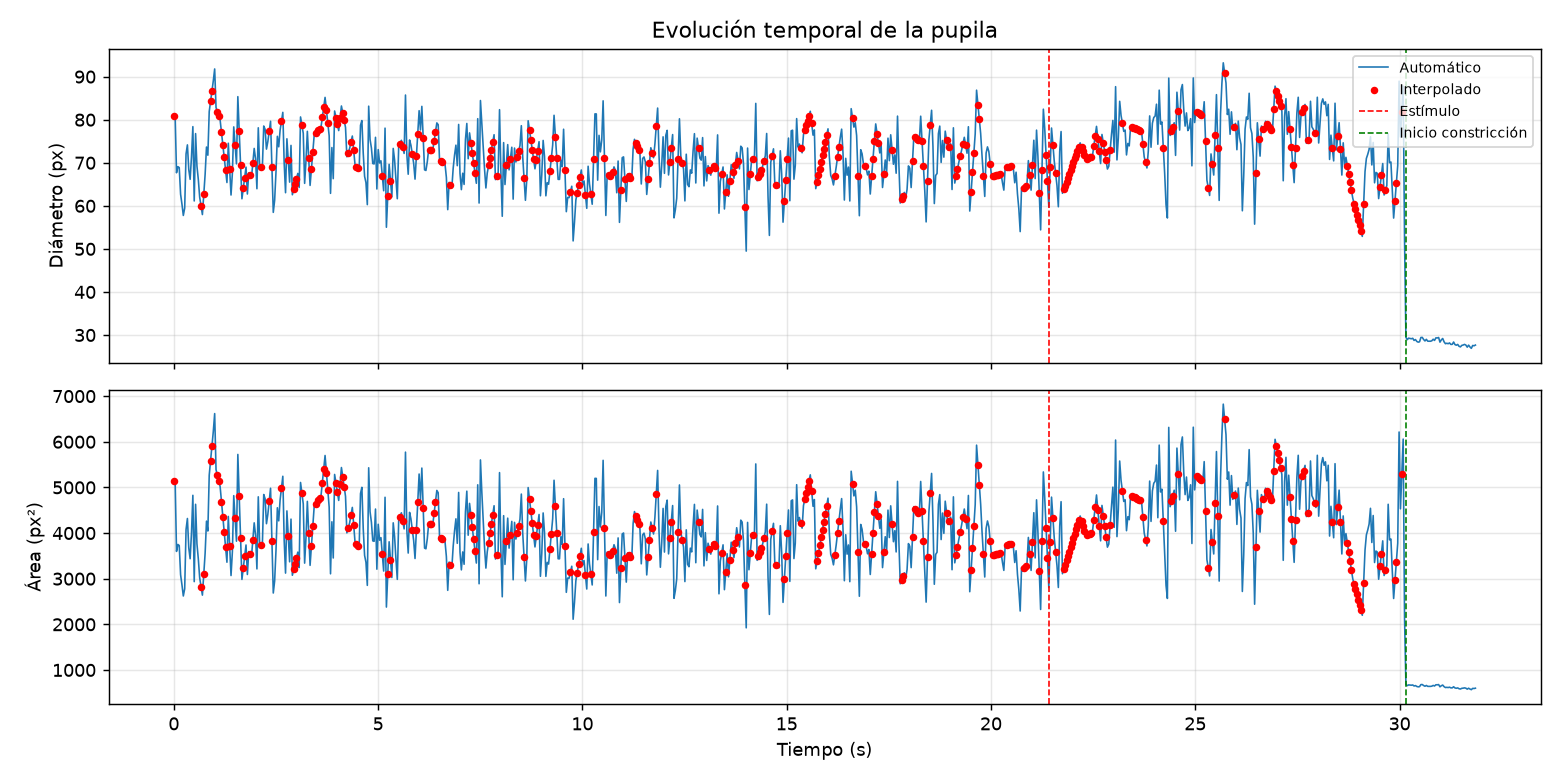
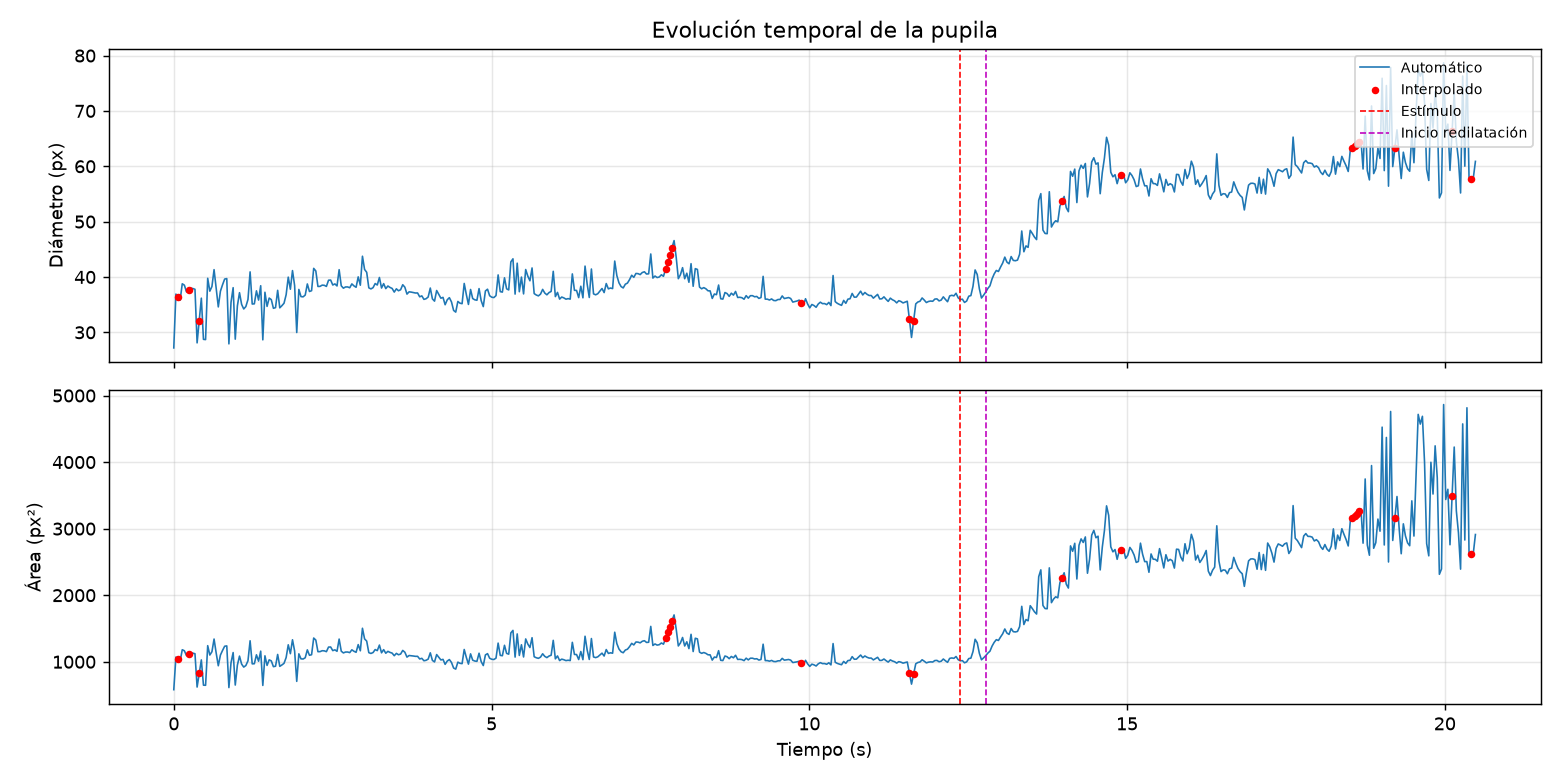
Ordeno repo

diff --git a/proyecto_ojo/pupila/pipeline.py b/proyecto_ojo/pupila/pipeline.py
@@ -35,85 +35,6 @@ def graficar_curva(df, P, ev, ruta=None):
         fig.savefig(ruta, dpi=130)
     return fig
 
-
-# --------------------------------------------------------------- reporte
-def generar_reporte(ctx, cfg, df, out_dir):
-    """Tablas de los Módulos 1 a 4 sobre el frame de referencia, guardadas como CSV.
-
-    Cada módulo se ejecuta aislado: si uno falla se informa y se sigue con los demás.
-    """
-    out_dir = Path(out_dir)
-    gris, rgb = ctx["roi_gray"], ctx["roi_rgb"]
-    cx, cy = ctx["centro_roi"]
-    avisos = []
-
-    def paso(nombre, f):
-        try:
-            f()
-        except Exception as e:            # noqa: BLE001
-            avisos.append(f"{nombre}: {e}")
-            print(f"  [aviso] {nombre} falló: {e}")
-            (out_dir / "reporte_errores.txt").open("a", encoding="utf-8").write(
-                f"{nombre}\n{traceback.format_exc()}\n")
-
-    mask_ws, cont = modulo2.segmentar_pupila(gris, cx, cy, radio=20)
-
-    # ---- Módulo 1
-    def m1():
-        ruido = modulo1.agregar_ruido(gris, seed=0)
-        filas = []
-        for r_nombre, r_img in ruido.items():
-            for f_nombre, f_img in modulo1.filtrar_espacial(r_img).items():
-                filas.append({"ruido": r_nombre, "filtro": f_nombre, **modulo1.metricas_calidad(gris, f_img)})
-        for forma in ("ideal", "gaussiano"):
-            for tipo, d0 in (("pasa_bajos", 40), ("pasa_altos", 30)):
-                img, _ = modulo1.filtro_frecuencia(gris, d0, tipo, forma)
-                filas.append({"ruido": "ninguno", "filtro": f"frecuencia {forma} {tipo} D0={d0}",
-                              **modulo1.metricas_calidad(gris, img)})
-        # for nombre, b in modulo1.detectar_bordes(gris).items():
-        #     filas.append({"ruido": "ninguno", "filtro": f"continuidad borde {nombre}",
-        #                   "PSNR (dB)": np.nan,
-        #                   "SSIM": modulo1.continuidad_contorno_pupilar(b, mask_ws)})
-        # pd.DataFrame(filas).to_csv(out_dir / "modulo1_metricas.csv", index=False)
-    paso("Módulo 1", m1)
-
-    # ---- Módulo 2
-    def m2():
-        _, otsu = modulo2.segmentar_otsu(gris)
-        mascaras = {"Otsu": otsu, **{f"K-Means K={k}": m for k, m in modulo2.segmentar_kmeans(rgb).items()},
-                    "Watershed": mask_ws}
-        try:
-            mascaras["Snake"] = modulo2.segmentar_snake(gris, (cx, cy))[2]
-        except Exception as e:             # noqa: BLE001
-            avisos.append(f"Snake: {e}")
-        # modulo2.tabla_metricas(mascaras, mask_ws).to_csv(out_dir / "modulo2_segmentacion_vs_watershed.csv")
-        # modulo2.tabla_metricas(modulo2.combinaciones_morfologicas(mask_ws), mask_ws).to_csv(
-        #     out_dir / "modulo2_morfologia_vs_watershed.csv")
-    paso("Módulo 2", m2)
-
-    # ---- Módulo 3 (frame de referencia)
-    def m3():
-        roi_cuant, _ = modulo3.cuantizar_roi(rgb, gris)
-        desc, _ = modulo3.descriptores_morfometricos(cont)
-        mask_iris, _ = modulo3.segmentar_iris(gris, mask_ws, (desc["Centroide X_c (px)"], desc["Centroide Y_c (px)"]))
-        mask_iris_ok, _ = modulo3.mascara_sin_reflejos(gris, mask_iris)
-        # pd.DataFrame(desc, index=["valor"]).T.to_csv(out_dir / "modulo3_morfometria.csv")
-        # sp = modulo3.estadisticas_primer_orden(roi_cuant, mask_ws)
-        # si = modulo3.estadisticas_primer_orden(roi_cuant, mask_iris_ok)
-        # gp, gi, _ = modulo3.textura_glcm_por_canal(roi_cuant, mask_ws, mask_iris_ok)
-        # pd.concat({"pupila_primer_orden": sp, "iris_primer_orden": si,
-        #            "pupila_glcm": gp, "iris_glcm": gi}, axis=0).to_csv(out_dir / "modulo3_textura.csv")
-    paso("Módulo 3", m3)
-
-    # ---- Módulo 4
-    def m4():
-        tabla, _ = modulo4.comparar_compresion(gris)
-        # tabla.to_csv(out_dir / "modulo4_compresion.csv", index=False)
-        # modulo4.efecto_jpeg_en_diametro(gris, cx, cy)[0].to_csv(out_dir / "modulo4_efecto_jpeg_diametro.csv")
-    paso("Módulo 4", m4)
-    return avisos
-
-
 # --------------------------------------------------------------- pipeline
 def ejecutar_pipeline(cfg, progreso=True, guardar=True, df_previo=None):
     """Pipeline de punta a punta para el video indicado en `cfg['video_path']`.

diff --git a/proyecto_ojo/pupila/modulo3.py b/proyecto_ojo/pupila/modulo3.py
@@ -192,7 +192,7 @@ def procesar_video(video_path, centro_inicial, cfg, progreso=True):
     Los frames inválidos (circularidad < umbral o sin segmentación) se interpolan.
     """
     r, v = cfg["roi"], cfg["video"]
-    cap = cv2.VideoCapture(str(video_path))
+    cap = cv2.VideoCapture(str(video_path), cv2.CAP_FFMPEG)
     if not cap.isOpened():
         raise RuntimeError(f"No se pudo abrir el video: {video_path}")
     fps = cap.get(cv2.CAP_PROP_FPS)
@@ -268,7 +268,7 @@ def anotar_frames_manualmente(video_path, indices, centros, cfg, ruta_csv, escal
     `centros` es el array (n_frames, 2) de centros pupilares (df[['centro_x_px','centro_y_px']]).
     """
     r = cfg["roi"]
-    cap = cv2.VideoCapture(str(video_path))
+    cap = cv2.VideoCapture(str(video_path), cv2.CAP_FFMPEG)
     manual = (pd.read_csv(ruta_csv).rename(columns={"Área manual (px²)": "area_manual_px2",
                                                     "Diámetro manual (px)": "diametro_manual_px"})
               if os.path.exists(ruta_csv)

diff --git a/proyecto_ojo/pupila/video.py b/proyecto_ojo/pupila/video.py
@@ -8,7 +8,7 @@ KERNEL_REFLEJO = cv2.getStructuringElement(cv2.MORPH_ELLIPSE, (25, 25))
 
 # ----------------------------------------------------------------- video
 def info_video(video_path):
-    cap = cv2.VideoCapture(str(video_path))
+    cap = cv2.VideoCapture(str(video_path), cv2.CAP_FFMPEG)
     if not cap.isOpened():
         raise RuntimeError(f"No se pudo abrir el video: {video_path}")
     info = {
@@ -26,7 +26,7 @@ def info_video(video_path):
 
 def leer_frame(video_path, indice):
     """Devuelve el frame `indice` en BGR."""
-    cap = cv2.VideoCapture(str(video_path))
+    cap = cv2.VideoCapture(str(video_path), cv2.CAP_FFMPEG)
     cap.set(cv2.CAP_PROP_POS_FRAMES, int(indice))
     ok, frame = cap.read()
     cap.release()

diff --git a/proyecto_ojo/pupila/config.py b/proyecto_ojo/pupila/config.py
@@ -4,7 +4,7 @@ import copy
 import yaml
 
 DEFAULTS = {
-    "video_path": "data/raw/Registro A_2 copia.mov",
+    "video_path": None,
     "output_dir": "resultados",
     "frame_referencia": None,
     "centro_pupila_inicial": None,
@@ -15,8 +15,7 @@ DEFAULTS = {
     "fisiologia": {"t_estimulo_s": None, "ventana_base_s": 2.0, "k_sigma": 3,
                    "n_sostenido": 5, "ventana_mediana": 15,
                    "fraccion_constriccion": 0.9, "fraccion_redilatacion": 0.9},
-    "generar_reporte": True,
-    "anotaciones_manuales": None,
+    "generar_reporte": True
 }
 
 

diff --git a/proyecto_ojo/pupila/deteccion.py b/proyecto_ojo/pupila/deteccion.py
@@ -130,7 +130,7 @@ def detectar_en_video(video_path, n_frames_muestra=9, score_minimo=0.25, ojo="au
     sirve cuando se ven los dos ojos). Devuelve un dict con centro (x, y), radio, confianza
     (fracción de frames que coinciden) y las detecciones; None si no se detecta nada creíble.
     """
-    cap = cv2.VideoCapture(str(video_path))
+    cap = cv2.VideoCapture(str(video_path), cv2.CAP_FFMPEG)
     n = int(cap.get(cv2.CAP_PROP_FRAME_COUNT))
     indices = np.unique(np.linspace(0, max(n - 1, 0), n_frames_muestra).astype(int))
     dets = []

diff --git a/proyecto_ojo/README.md b/proyecto_ojo/README.md
@@ -33,11 +33,9 @@ No requiere intervención: el centro de la pupila se detecta automáticamente
 (si fallara, fijar `centro_pupila_inicial: [x, y]` en `config.yaml`; `resultados/vista_previa_roi.png`
 muestra qué se detectó).
 
-## Salidas (en `output_dir`)
+## Salidas (en `resultados`)
 
-- `curva_pupila.csv`: `frame, tiempo_s, area_px2, diametro_px, interpolado, circularidad, centro_x_px, centro_y_px, brillo_medio`
-- `parametros_fisiologicos.csv`: `parametro, valor, unidad` — tiempo de estímulo, latencia (ms), amplitud (área y diámetro),
-  velocidad de constricción y de redilatación, etc. Los parámetros que no se pueden calcular quedan en NaN (las filas son siempre las mismas).
-- `curva_pupila.png`, `vista_previa_roi.png` y tablas `modulo1_*.csv … modulo4_*.csv` (si `generar_reporte: true`).
+- `resultados.csv`: Las columnas son frame, tiempo_s, area_px2, diametro_px, interpolado, circularidad, centro_x_px, centro_y_px, brillo_medio, seguidas de los parámetros fisiológicos (t_estimulo_s, frame_estimulo, t_inicio_constriccion_s, latencia_ms, diametro_basal_px, diametro_minimo_px, amplitud_diametro_px, area_basal_px2, area_minima_px2, amplitud_area_px2, amplitud_area_pct, t_minimo_s, velocidad_constriccion_*, duracion_constriccion_s, t_inicio_redilatacion_s, velocidad_redilatacion_*) y de fps, n_frames, duracion_s, frames_interpolados_pct. Los parámetros son constantes del registro y se repiten en cada fila. Si alguno no se puede calcular queda en NaN.
+- `curva_pupila.png`
 
 Todas las magnitudes están en píxeles (sin calibración a mm).
